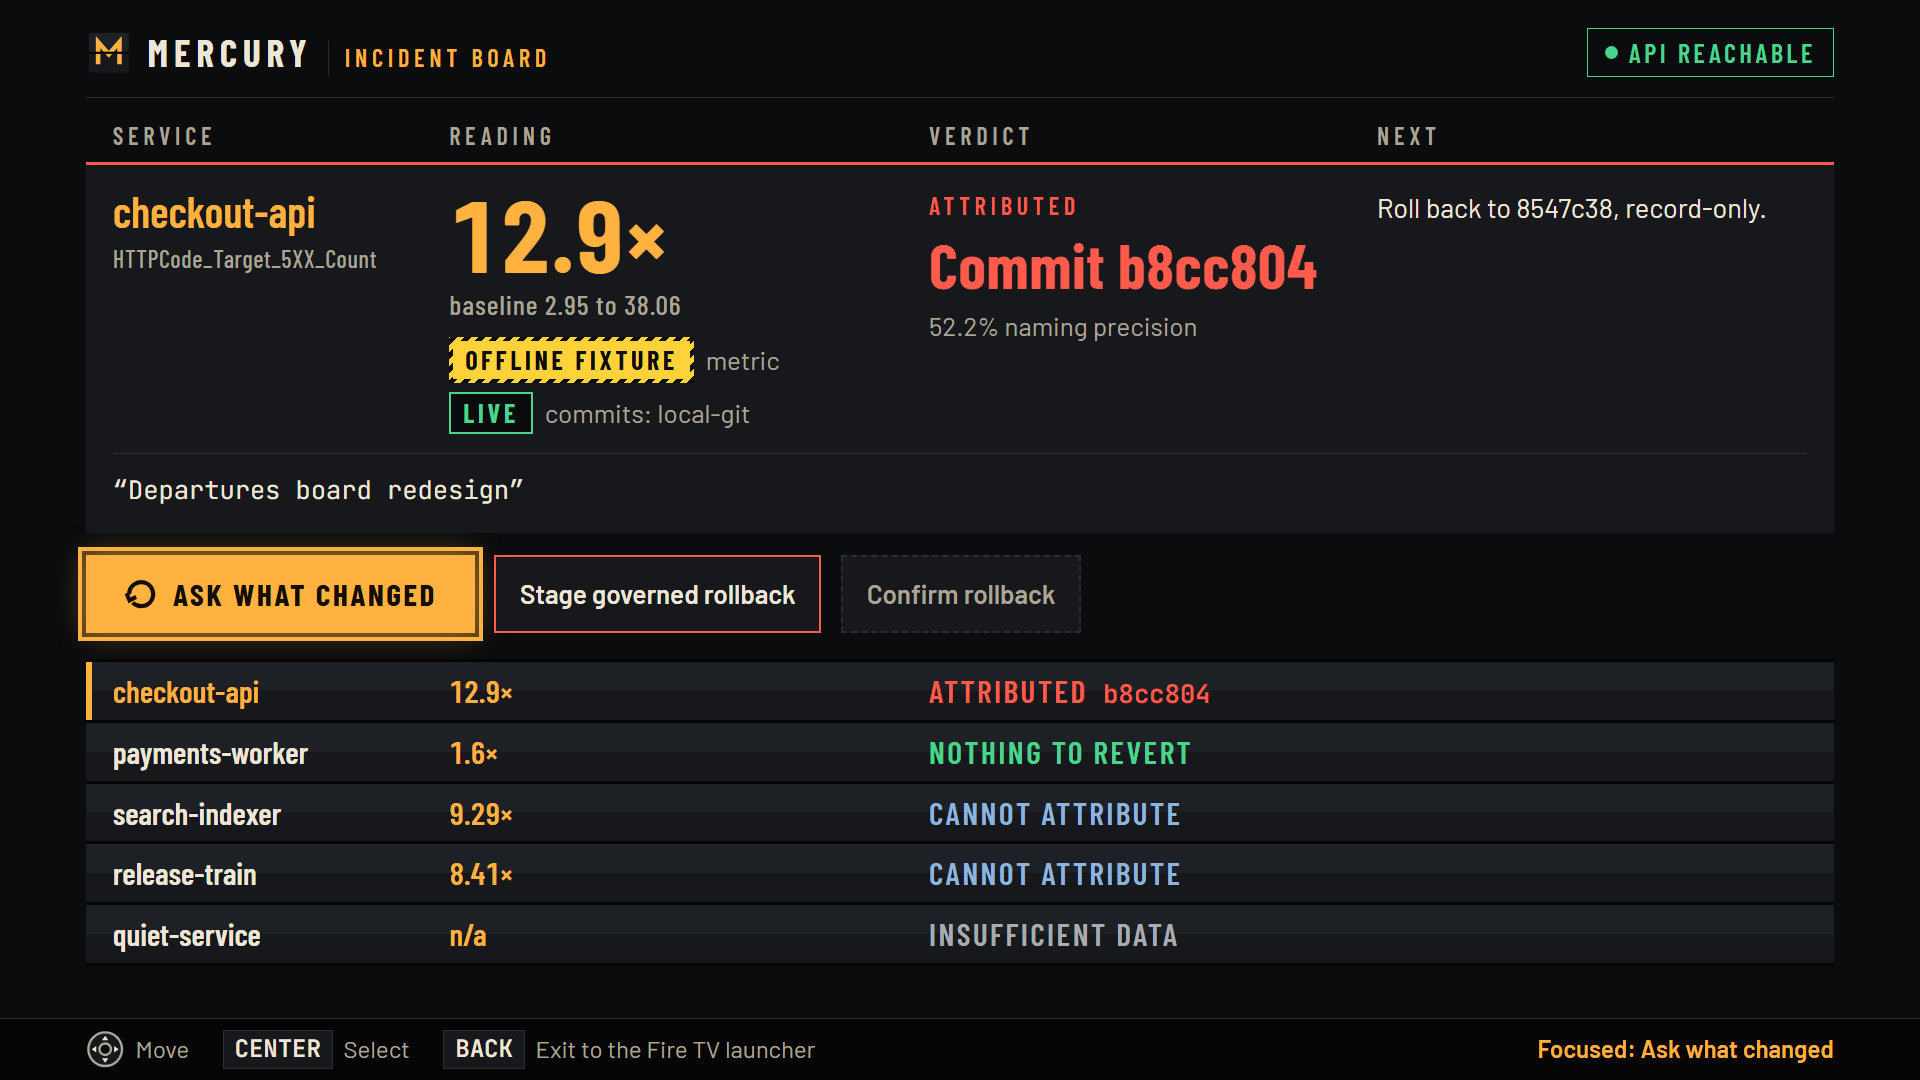
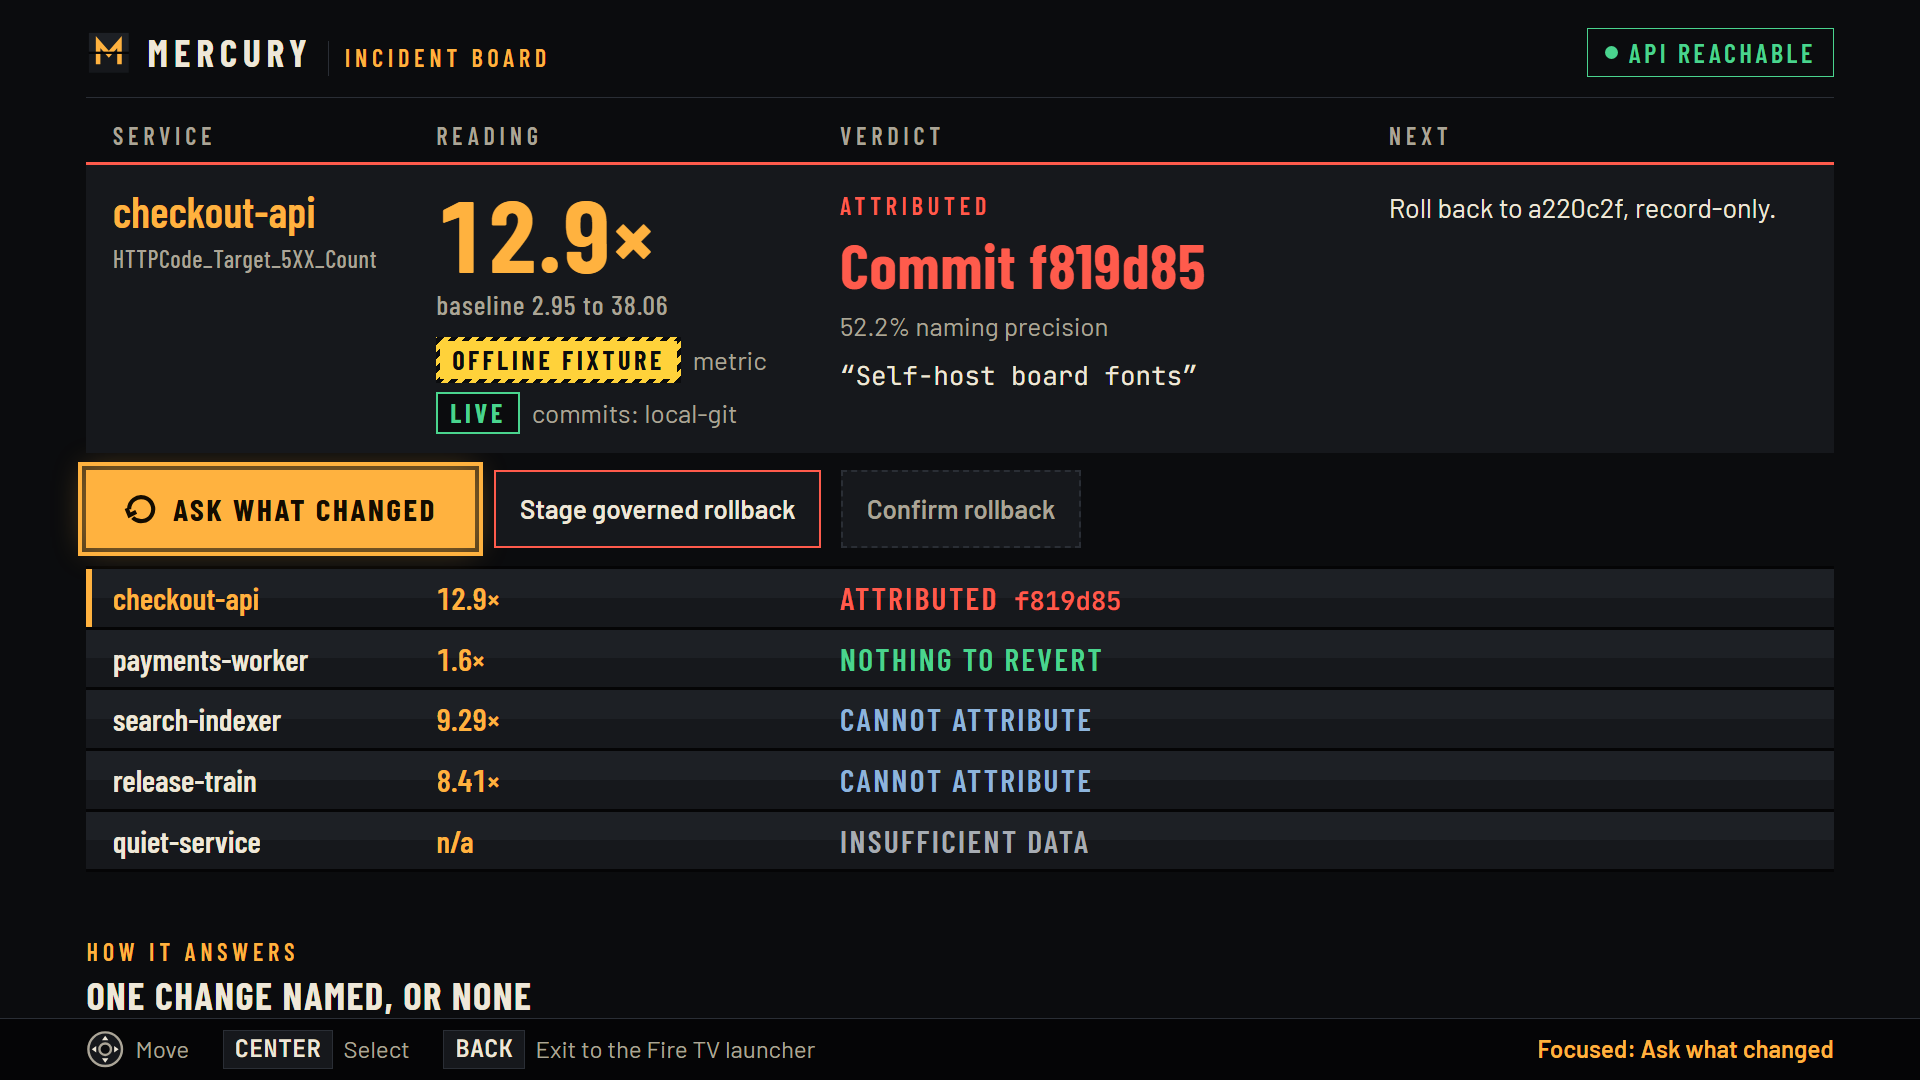
Board fits TV
At 1920x1080 a refusal's longer answer ran as a full-width band under
all four cells and pushed the last departures behind the key bar
(search-indexer, release-train and quiet-service). At ten feet the why
now sits under the verdict it explains, beside the reading, with the
verdict column widened, so every row stays on the first screen in all
four verdicts; the quote under a named commit moves with it.

The Fire TV app's WebView reports 960x540 CSS pixels, which the 1400px
query never saw: the host showed the key bar over a desktop-scale board
with four rows behind it. Inside the host at 900 to 1399px the same
10-foot rules now apply at 1.25vw to the rem, the 1920 board at half
the CSS size.

A parametrized browser test reaches each verdict through navigateDpad
SELECT at 1920x1080 and at 960x540 with MercuryHost injected, and holds
every row above the key bar, no scroll, the primary and the OFFLINE
FIXTURE stamp on the first screen, no sideways scroll and the type
floor. The README capture is retaken from the harness.

diff --git a/docs/index.html b/docs/index.html
@@ -520,6 +520,68 @@
       .reason, .cell-next .reason { font-size: 1.12rem; }
       .setup-row input { min-width: 9rem; }
       body { padding-bottom: 4.2rem; }
+      /* The answer's why sits under the verdict it explains, beside the reading, not
+         in a full-width band under all four cells. As a band, a refusal's longer
+         sentence pushed the last departures behind the key bar; here every row stays
+         on the first screen in all four verdicts (tests/ux/test_board_in_browser.py). */
+      .board-grid { grid-template-columns: minmax(0, 0.9fr) minmax(0, 1.15fr) minmax(0, 1.6fr) minmax(0, 1.3fr); }
+      .answer.board-grid { grid-template-rows: auto 1fr; }
+      .answer .cell-service   { grid-column: 1; grid-row: 1 / span 2; }
+      .answer .cell-reading   { grid-column: 2; grid-row: 1 / span 2; }
+      .answer .cell-verdict   { grid-column: 3; grid-row: 1; }
+      .answer .cell-next      { grid-column: 4; grid-row: 1; }
+      .hero-cause {
+        grid-column: 3 / -1; grid-row: 2; align-self: start;
+        font-size: var(--fs-op); line-height: 1.33;
+        margin-top: 0.55rem; padding: 0; border-top: 0;
+      }
+      .hero-cause .quote { font-size: 1em; }
+      .hero-actions { margin-top: 0.7rem; }
+      .departures { margin-top: 0.75rem; }
+      .departures-rows { gap: 0.125rem; padding: 0.125rem 0; }
+      .answer { padding-bottom: 0.8rem; }
+    }
+    /* The Fire TV app's WebView. A 1080p Fire TV reports a 960x540 CSS viewport
+       (two device pixels per CSS pixel), which the 1400px query above never sees,
+       so inside the host the same 10-foot board is drawn at 1.25vw to the rem: at
+       960 wide that is exactly the 1920 layout at half the CSS size, the same
+       physical size on the panel. Keep these rules in step with the block above;
+       tests/ux/test_board_in_browser.py measures both. */
+    @media (min-width: 900px) and (max-width: 1399.98px) {
+      html.tv-host {
+        font-size: 1.25vw;
+        --fs-label: 1rem;
+        --fs-small: 1rem;
+        --fs-op:    1.08rem;
+        --fs-body:  1.08rem;
+        --fs-lead:  1.15rem;
+        --fs-row:   1.3rem;
+        --fs-h2:    1.6rem;
+        --fs-head:  2.6rem;
+        --fs-figure:4.2rem;
+      }
+      .tv-host .shell { padding: 2.4vh 4.5vw 1.5rem; }
+      .tv-host .keybar { padding: 0.45rem 4.5vw; }
+      .tv-host .wordmark .wm-text > span { font-size: 1rem; }
+      .tv-host .board-service { font-size: 1.8rem; }
+      .tv-host .reason, .tv-host .cell-next .reason { font-size: 1.12rem; }
+      .tv-host .setup-row input { min-width: 9rem; }
+      .tv-host .board-grid { grid-template-columns: minmax(0, 0.9fr) minmax(0, 1.15fr) minmax(0, 1.6fr) minmax(0, 1.3fr); }
+      .tv-host .answer.board-grid { grid-template-rows: auto 1fr; }
+      .tv-host .answer .cell-service   { grid-column: 1; grid-row: 1 / span 2; }
+      .tv-host .answer .cell-reading   { grid-column: 2; grid-row: 1 / span 2; }
+      .tv-host .answer .cell-verdict   { grid-column: 3; grid-row: 1; }
+      .tv-host .answer .cell-next      { grid-column: 4; grid-row: 1; }
+      .tv-host .hero-cause {
+        grid-column: 3 / -1; grid-row: 2; align-self: start;
+        font-size: var(--fs-op); line-height: 1.33;
+        margin-top: 0.55rem; padding: 0; border-top: 0;
+      }
+      .tv-host .hero-cause .quote { font-size: 1em; }
+      .tv-host .hero-actions { margin-top: 0.7rem; }
+      .tv-host .departures { margin-top: 0.75rem; }
+      .tv-host .departures-rows { gap: 0.125rem; padding: 0.125rem 0; }
+      .tv-host .answer { padding-bottom: 0.8rem; }
     }
 
     @media (prefers-reduced-motion: reduce) {

diff --git a/tests/ux/test_board_in_browser.py b/tests/ux/test_board_in_browser.py
@@ -10,6 +10,8 @@ claims they checked stay checked:
   and draws no letter cells at all under prefers-reduced-motion;
 * the D-pad cursor starts on the primary action and the remote reaches every
   visible control through window.navigateDpad, the entry point the app calls;
+* in every verdict, every board row stays above the remote's key bar, both at
+  1920x1080 and in the Fire TV WebView's 960x540 CSS viewport.
 
 It lives in ``tests/ux`` for the reason ``test_ten_foot_legibility.py`` gives:
 readiness gate C5 looks for a user-journey browser test under ``tests/e2e``, and
@@ -318,3 +320,100 @@ def test_focus_starts_on_the_primary_and_the_remote_reaches_every_visible_contro
     finally:
         context.close()
 
+
+# ------------------------------------------------------- Every verdict, every row
+
+EXPECTED_VERDICTS = {
+    "checkout-api": "attributed",
+    "payments-worker": "nothing",
+    "search-indexer": "cannot",
+    "release-train": "cannot",
+    "quiet-service": "insufficient",
+}
+
+BOARD_GEOMETRY = """() => {
+  const bar = document.querySelector('.keybar');
+  const shown = getComputedStyle(bar).display !== 'none';
+  const floor = shown ? bar.getBoundingClientRect().top : innerHeight;
+  const box = el => { const r = el.getBoundingClientRect();
+                      return { top: r.top, bottom: r.bottom, left: r.left, right: r.right }; };
+  let smallest = Infinity;
+  const walker = document.createTreeWalker(document.body, NodeFilter.SHOW_TEXT);
+  while (walker.nextNode()) {
+    const text = walker.currentNode;
+    if (!text.textContent.trim()) continue;
+    const style = getComputedStyle(text.parentElement);
+    if (style.display === 'none' || style.visibility === 'hidden') continue;
+    const range = document.createRange(); range.selectNodeContents(text);
+    const r = range.getBoundingClientRect();
+    if (r.width < 1 || r.height < 1 || r.top >= innerHeight || r.bottom <= 0) continue;
+    smallest = Math.min(smallest, parseFloat(style.fontSize));
+  }
+  return {
+    verdict: document.querySelector('#hero').dataset.verdict,
+    scrollY: window.scrollY, keybarShown: shown, keybarTop: floor,
+    rows: [...document.querySelectorAll('.btn-demo')].map(row => [row.dataset.service, box(row)]),
+    primary: box(document.querySelector('[data-testid="primary-hero-action"]')),
+    stamp: box(document.querySelector('#heroSource .tag-fixture')),
+    stampText: document.querySelector('#heroSource .tag-fixture').textContent,
+    overflow: document.documentElement.scrollWidth > innerWidth + 1,
+    smallestFont: smallest,
+  };
+}"""
+
+
+@pytest.mark.parametrize(
+    "width, height, host, floor_px",
+    [
+        # The board at television resolution in a browser. 24px is the 10-foot floor
+        # scripts/measure_legibility.py holds the whole page to.
+        (1920, 1080, False, 24.0),
+        # The Fire TV app's WebView: a 1080p Fire TV reports 960x540 CSS pixels at
+        # two device pixels each (an assumption about the device class, not a
+        # measurement of one), so 12 CSS pixels is the same 24 on the panel.
+        (960, 540, True, 12.0),
+    ],
+    ids=["tv-browser-1920x1080", "firetv-webview-960x540"],
+)
+def test_every_board_row_stays_above_the_key_bar_in_every_verdict(
+        browser, base_url, width, height, host, floor_px):
+    """A refusal's longer answer used to push the last departures behind the key bar.
+
+    Each state is reached the way the remote reaches it: the cursor is put on the row
+    and SELECT is sent through window.navigateDpad, the entry point the Android app
+    calls. The navigator scrolls whenever the focused row is not wholly visible, so a
+    regression shows up as a scrolled page as well as a covered row.
+    """
+    context, page, errors, _ = open_board(browser, base_url, width=width, height=height, host=host)
+    try:
+        wait_for_board(page)
+        for service, verdict in EXPECTED_VERDICTS.items():
+            if service != "checkout-api":
+                page.evaluate(
+                    """s => { const row = document.querySelector('.btn-demo[data-service="' + s + '"]');
+                              window.mercuryNav.setFocus(row);
+                              return window.navigateDpad('SELECT'); }""",
+                    service,
+                )
+                wait_for_board(page, service)
+            geometry = page.evaluate(BOARD_GEOMETRY)
+            where = f"{service} at {width}x{height}"
+            assert geometry["verdict"] == verdict, f"{where}: reached {geometry['verdict']}"
+            assert geometry["keybarShown"], f"{where}: the remote's key bar is not shown"
+            assert geometry["scrollY"] == 0, f"{where}: the page scrolled to {geometry['scrollY']}"
+            bar = geometry["keybarTop"]
+            covered = [name for name, box in geometry["rows"] if box["top"] < 0 or box["bottom"] > bar]
+            assert covered == [], f"{where}: rows behind the key bar at y={bar}: {covered}"
+            for label in ("primary", "stamp"):
+                box = geometry[label]
+                assert box["top"] >= 0 and box["bottom"] <= bar and box["right"] <= width, (
+                    f"{where}: the {label} is not wholly on the first screen: {box}"
+                )
+            assert geometry["stampText"] == "OFFLINE FIXTURE"
+            assert geometry["overflow"] is False, f"{where}: the page scrolls sideways"
+            assert geometry["smallestFont"] >= floor_px, (
+                f"{where}: text renders at {geometry['smallestFont']}px, under {floor_px}px"
+            )
+        assert errors == [], errors
+    finally:
+        context.close()

diff --git a/docs/COMPLIANCE_AND_ARCHITECTURE.md b/docs/COMPLIANCE_AND_ARCHITECTURE.md
@@ -46,7 +46,7 @@ are used where they are the truth.
 
 | Pillar | What exists | Assessment |
 |---|---|---|
-| **Operational excellence** | Terraform in `infra/main.tf`. A public Function URL serves the cockpit and `GET /health` reports status and the build SHA. Structured CloudWatch EMF is emitted per request by `PrivateObservabilityHarness`, with PII masking. CI runs lint, 594 tests, a coverage floor and the readiness auditor. | **Partial.** The software path is deployed, but teardown has not been exercised and the candidate Android TV runtime receipt is pending. |
+| **Operational excellence** | Terraform in `infra/main.tf`. A public Function URL serves the cockpit and `GET /health` reports status and the build SHA. Structured CloudWatch EMF is emitted per request by `PrivateObservabilityHarness`, with PII masking. CI runs lint, 596 tests, a coverage floor and the readiness auditor. | **Partial.** The software path is deployed, but teardown has not been exercised and the candidate Android TV runtime receipt is pending. |
 | **Security** | Operator state changes require a bearer secret compared in constant time. Governance tokens are HMAC-signed, content-bound and single use. The public D-pad demo routes accept only fixed labelled fixture evidence, turn off whenever a dispatcher is selected, and have no external effect. | **Partial.** The operator secret is shared, with no rotation and no per-operator identity. DynamoDB makes nonces global across instances but does not identify the human actor. |
 | **Reliability** | Every adapter degrades to a labelled fallback rather than failing the request. Failed AWS calls are deliberately not cached. Rollback leases expire. The Lambda persists deployment markers, handoffs, staged actions and spent nonces in DynamoDB with conditional writes. | **Partial.** The local quickstart deliberately falls back to process memory, and deployed concurrency still needs operational evidence. |
 | **Performance efficiency** | Measured, not asserted: `python scripts/benchmark_suite.py` reports 2.88 ms to 65.90 ms mean per endpoint over 60 requests each, written to `benchmarks_summary.json`. Credential resolution and fixture reads are cached after a benchmark showed them costing over a second per request. | **Addressed for the local path.** No measurement exists from a Fire TV on a real network. |
@@ -68,7 +68,7 @@ human will act on.
 | **Article 10** (Data governance) | Data sets are relevant, representative and documented | Every input carries a `Provenance` recording source, detail and observation time. The GitHub fixture is a recording of a real read with the command that produced it. The AWS fixture states in its own text that it is synthetic. | The synthetic cost fixture is not representative of any real account, which is why it says so rather than being presented as typical. |
 | **Article 13** (Transparency) | Users can interpret the output and use it appropriately | The cockpit prints the provenance beside every number, with a visually distinct `OFFLINE FIXTURE` badge. The correlator returns its reasoning as text, including the reasoning for a refusal. DORA proxy definitions are stated in the README rather than implied. | None identified. |
 | **Article 14** (Human oversight) | A human can intervene, and automation does not act alone | Mercury never executes a rollback on its own. It stages a recommendation; a person must authorise with a secret, then confirm with a single-use token inside a 300 second lease. Every refusal names its reason. | Oversight is authenticated by a shared secret, not by an identified individual, so the record shows that an authorised party acted, not which one. |
-| **Article 15** (Accuracy and robustness) | Accuracy is stated, and the system resists failure | The anomaly rule is published: a step up against the mean of the readings before the step, with a fixed factor, and the attribution refuses to name a change when more than one landed in the window. A zero baseline is explicitly not treated as an infinite spike. Naming precision is measured at 0.5221 over 113 namings against a 1160 case labelled corpus and ships in every answer as attribution.measured_accuracy. A refusal to attribute ships as a refusal (`attribution.refusal_statement` names the reason and says the reason is not a finding about the deploys; `attribution.nothing_to_revert` is true only when the reading is inside its baseline) and is never rendered as proof that a deploy did not cause the anomaly. 594 tests are collected and the recorded coverage run reports 92 percent over 1922 statements, including a failing-input test for each of ten rollback denial reasons. | The rule has no seasonality and no trend model, so a regular nightly batch will look like an anomaly. This is a known false-positive mode and is stated in the README. |
+| **Article 15** (Accuracy and robustness) | Accuracy is stated, and the system resists failure | The anomaly rule is published: a step up against the mean of the readings before the step, with a fixed factor, and the attribution refuses to name a change when more than one landed in the window. A zero baseline is explicitly not treated as an infinite spike. Naming precision is measured at 0.5221 over 113 namings against a 1160 case labelled corpus and ships in every answer as attribution.measured_accuracy. A refusal to attribute ships as a refusal (`attribution.refusal_statement` names the reason and says the reason is not a finding about the deploys; `attribution.nothing_to_revert` is true only when the reading is inside its baseline) and is never rendered as proof that a deploy did not cause the anomaly. 596 tests are collected and the recorded coverage run reports 92 percent over 1922 statements, including a failing-input test for each of ten rollback denial reasons. | The rule has no seasonality and no trend model, so a regular nightly batch will look like an anomaly. This is a known false-positive mode and is stated in the README. |
 | **Article 50** (Disclosure) | People are told when they interact with a machine | The cockpit is labelled as a tool throughout. Its spoken output is the browser's `speechSynthesis`, disclosed as such in the README. There is no conversational agent and no synthetic persona. | None identified. |
 
 ---

diff --git a/README.md b/README.md
@@ -40,7 +40,7 @@ every attribution carries its own measured precision.
 git clone https://github.com/upgradedev/mercury_amazon.git
 cd mercury_amazon
 pip install -e ".[dev]"
-python -m pytest tests/ -q  # 594 passed
+python -m pytest tests/ -q  # 596 passed
 python -m src.interfaces.mcp_server
 ```
 
@@ -65,7 +65,7 @@ rather than for a fast one. On PowerShell, set the secret with
 would rather choose it yourself. Full detail in [Quickstart](#quickstart).
 
 [![CI](https://github.com/upgradedev/mercury_amazon/actions/workflows/ci.yml/badge.svg)](.github/workflows/ci.yml)
-[![Tests](https://img.shields.io/badge/tests-594%20collected-brightgreen.svg)](tests/)
+[![Tests](https://img.shields.io/badge/tests-596%20collected-brightgreen.svg)](tests/)
 [![Coverage](https://img.shields.io/badge/coverage-92%25-brightgreen.svg)](.github/workflows/ci.yml)
 [![License: MIT](https://img.shields.io/badge/License-MIT-yellow.svg)](LICENSE)
 
@@ -621,7 +621,7 @@ unless the gap is disclosed in the exact phrases `ci/readiness.py` returns from
 `stale_timing_disclosure`; quietly ageing is not one of the options. The published
 timing record was **measured over 541 collected tests**. Additional persistence,
 packaging, browser and Android TV checks were added afterward: **the suite now collects
-594 tests and a re-measure on an idle machine is pending**.
+596 tests and a re-measure on an idle machine is pending**.
 
 **How the figure moved between sessions, published rather than re-rolled.**
 `suite_timing_summary.json` carries the latest session's runs and the previous
@@ -662,7 +662,7 @@ pip install -e ".[dev]"
 
 ```bash
 python -m pytest tests/ -q
-# 594 passed
+# 596 passed
 ```
 
 ### 3. Start the server
@@ -873,7 +873,7 @@ because it shells out to `git log` for the commit fallback.
 ### Tests and coverage
 
 ```bash
-python -m pytest tests/ -q                                    # 594 passed
+python -m pytest tests/ -q                                    # 596 passed
 python -m pytest tests/ --cov=src --cov-report=term-missing   # 92% of 1922 statements
 node tests/e2e/spatial_nav_spec.js                            # 17/17 assertions
 python scripts/correlation_trial.py                           # 1160 labelled cases scored

diff --git a/docs/UAT_TESTBOOK.md b/docs/UAT_TESTBOOK.md
@@ -75,7 +75,7 @@ place to report what happened, whether it worked or not.
 
 | Criterion | Status | Evidence |
 |---|---|---|
-| Automated suite green | Met | `python -m pytest tests/ -q`, 594 passed |
+| Automated suite green | Met | `python -m pytest tests/ -q`, 596 passed |
 | Line coverage at or above 85 percent | Met | `python scripts/record_coverage_summary.py`, 92 percent of 1922 statements |
 | Every rollback denial reason has a failing-input test | Met | 10 distinct denial reasons asserted in `tests/integration/test_rollback_authorization.py`, counted by `python ci/readiness.py` at gate I5 |
 | Readiness gates with no blocking failure | Met | `python ci/readiness.py`, 45/53 passed, 0 blocking |
